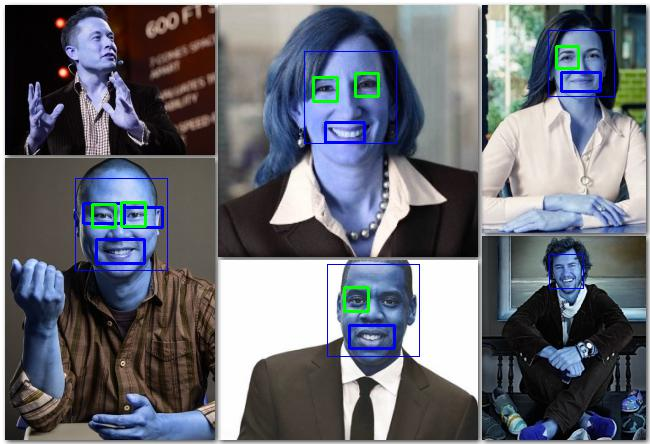
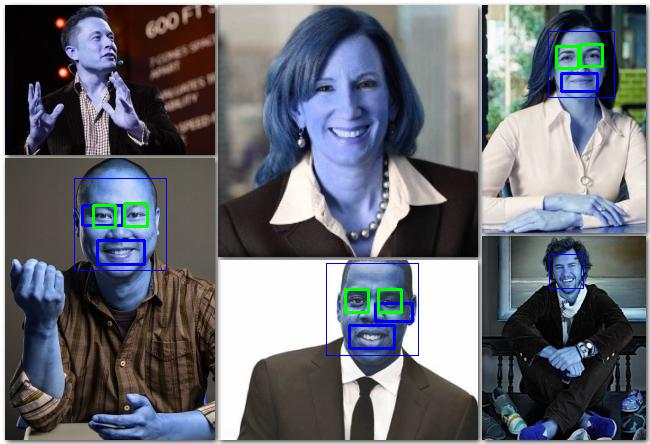
updatting api

diff --git a/app.py b/app.py
@@ -1,124 +1,97 @@
-#!/home/inspiron3551/anaconda3/bin/python
 import os
-from flask import Flask, jsonify, request, redirect, send_file, url_for, render_template
+import imghdr
 from PIL import Image
-import cv2
+from flask import Flask, request, jsonify
+from flask_wtf import FlaskForm
+from flask_wtf.file import FileField
+from wtforms import SubmitField
+from werkzeug.utils import secure_filename
 
-from facefilter import main
-from face_detection import detectedFace
+from utils.face_detection import detectedFace
+from utils.facefilter import faceFilter
 
 app = Flask(__name__)
-
 BASE_DIR = os.path.dirname(os.path.abspath(__file__))
+UPLOAD_DIR = os.path.join(BASE_DIR, 'uploads')
 
-""" 
-OpenCV FaceFilter RestAPI
-"""
-@app.route('/', methods=['GET'])
-def home():
-    return jsonify(
-        {
-        'title': 'OpenCV REST API with Flask',
-        'face filter': url_for('face_filter'),
-        'face detection': url_for('face_detection'),
-        'github': 'https://github.com/codeperfectplus',
-        'documentation': 'documentation_url',
-        'author': 'Deepak Raj'
-        }
-    )        
-'''
-Face Filter post request.
-input post;
-    file: image_file
-    mask: num:<1-3>
-'''
-@app.route('/facefilter', methods=['GET', 'POST'])
-def face_filter():
+# upload file configurations
+app.config['MAX_CONTENT_LENGTH'] = 1024 * 1024 * 1024
+app.config['UPLOAD_EXTENSIONS'] = ['.jpg', '.png', 'jpeg']
 
-    if request.method == 'POST':
-        try:
-            os.mkdir('media')
-        except Exception:
-            print('Folder already exists')
+#validating file contents
+def validate_image(stream):
+    header = stream.read(512)
+    stream.seek(0)
+    format = imghdr.what(None, header)
+    if not format:
+        return None
+    return '.'+ (format if format != 'jpeg' else 'jpg')
 
-        media_root = os.path.join(BASE_DIR, 'media')
-        upload_image = request.files.getlist('file')[0]
-        mask_num = request.form["mask"]
+@app.errorhandler(413)
+def too_large(e):
+    return 'FIle is too large', 413
 
-        image_name = upload_image.filename
+class MyForm(FlaskForm):
+    file = FileField("File")
+    submit = SubmitField('Submit')
 
-        image_path = "/".join([media_root, image_name])
-        
-        # saving input image to server
-        upload_image.save(image_path)
-
-        # main() function is for apply mask on image
-        preprocessed_image = main(image_path, mask_num)
-        preprocessed_image = Image.fromarray(preprocessed_image, 'RGB')
-        preprocessed_image.save(image_path)
-
-        return jsonify(
-            {
-                'output_image': image_path,
-                'file_name': image_name
-            }
-        )
-    return jsonify({'status': 'Create post request for face-filters'})
-
-'''
-Face Detection Post Request
-
-Input post request:
-    file: image_file
-output:
-    detected face and number of face
-'''
-@app.route('/facedetection', methods=['GET','post'])
+@app.route('/facedetection', methods=['GET', 'POST'])
 def face_detection():
-
     if request.method == 'POST':
-        media_root = os.path.join(BASE_DIR, 'media')
-        upload_image = request.files.getlist('file')[0]
+        upload_file = request.files['file']
+        filename = secure_filename(upload_file.filename)
+        if filename != '':
+            file_ext = os.path.splitext(filename)[1]
+            if file_ext not in app.config["UPLOAD_EXTENSIONS"] or \
+                file_ext != validate_image(upload_file.stream):
+                return "Invalid Image", 400
+            
+            image_path = "/".join([UPLOAD_DIR, filename])
 
-        image_name = upload_image.filename
+            upload_file.save(image_path)
 
-        image_path = "/".join([media_root, image_name])
-        
-        # saving input image to server
-        upload_image.save(image_path)
+            preprocess_img, num_of_faces = detectedFace(image_path)
+            output_image = Image.fromarray(preprocess_img, 'RGB')
+            output_image.save(image_path)
 
-        # main() function is for apply mask on image
-        preprocessed_image, num_of_faces = detectedFace(image_path)
-        preprocessed_image = Image.fromarray(preprocessed_image, 'RGB')
-        preprocessed_image.save(image_path)
-
-        return jsonify(
-            {
-                'Total detected face': num_of_faces,
-                'output_image': image_path,
-                'file_name': image_name
-            }
-        )
+            return jsonify(
+                {
+                    'Total detected face': num_of_faces,
+                    'output_image': image_path,
+                    'file_name': filename
+                }
+            )
     return jsonify({'status': 'Create post request for face-detection'})
 
+@app.route('/facefilter', methods=['GET', 'POST'])
+def face_filter():
+    if request.method == 'POST':
+        upload_file = request.files['file']
+        mask_num = request.form['mask']
 
-''' This is only for debugging and testing purpose'''
-@app.route('/test', methods=['post'])
-def test():
+        filename = secure_filename(upload_file.filename)
+        if filename != '':
+            file_ext = os.path.splitext(filename)[1]
+            if file_ext not in app.config["UPLOAD_EXTENSIONS"] or \
+                file_ext != validate_image(upload_file.stream):
+                return "Invalid Image", 400
+            
+            image_path = "/".join([UPLOAD_DIR, filename])
 
-    media_root = os.path.join(BASE_DIR, 'media')
-    upload_image = request.files.getlist('file')[0]
+            upload_file.save(image_path)
 
-    image_name = upload_image.filename
+            preprocess_image = main(image_path, mask_num)
+            output_image = Image.fromarray(preprocess_image, 'RGB')
+            output_image.save(image_path)
 
-    image_path = "/".join([media_root, image_name])
-    
-    # saving input image to server
-    upload_image.save(image_path)
+            return jsonify(
+                {
+                    'output_image': image_path,
+                    'file_name': filename
+                }
+            )
+    return jsonify({'status': 'Create post request for face-filters'})
 
-    # main() function is for apply mask on image
-    preprocessed_image, num_of_faces = detectedFace(image_path)
-    preprocessed_image = Image.fromarray(preprocessed_image, 'RGB')
-    preprocessed_image.save(image_path)
-    
-    return send_file(image_path, mimetype='image/gif')
+
+if __name__ == "__main__":
+    app.run()

diff --git a/app3.py b/app3.py
@@ -1,0 +1,126 @@
+#!/home/inspiron3551/anaconda3/bin/python
+import os
+import numpy as np
+from flask import Flask, jsonify, request, redirect, send_file, url_for, render_template
+from PIL import Image
+import cv2
+import pickle
+
+from facefilter import main
+from face_detection import detectedFace
+from utils import randomFilename
+
+app = Flask(__name__)
+
+BASE_DIR = os.path.dirname(os.path.abspath(__file__))
+
+""" 
+OpenCV FaceFilter RestAPI
+"""
+@app.route('/', methods=['GET'])
+def home():
+    return jsonify(
+        {
+        'title': 'OpenCV REST API with Flask',
+        'face filter': url_for('face_filter'),
+        'face detection': url_for('face_detection'),
+        'github': 'https://github.com/codeperfectplus',
+        'documentation': 'documentation_url',
+        'author': 'Deepak Raj'
+        }
+    )        
+
+'''
+Face Filter post request.
+input post;
+    file: image_file
+    mask: num:<1-3>
+'''
+@app.route('/facefilter', methods=['GET', 'POST'])
+def face_filter():
+
+    if request.method == 'POST':
+        try:
+            os.mkdir('media')
+        except Exception:
+            print('Folder already exists')
+
+        media_root = os.path.join(BASE_DIR, 'media')
+        upload_image = request.files.getlist('file')[0]
+        mask_num = request.form["mask"]
+
+        image_name = upload_image.filename
+
+        image_path = "/".join([media_root, image_name])
+        
+        # saving input image to server
+        upload_image.save(image_path)
+
+        # main() function is for apply mask on image
+        preprocess_image = main(image_path, mask_num)
+        output_image = Image.fromarray(preprocess_image, 'RGB')
+        output_image.save(image_path)
+
+        return jsonify(
+            {
+                'output_image': image_path,
+                'file_name': image_name
+            }
+        )
+    return jsonify({'status': 'Create post request for face-filters'})
+
+'''
+Face Detection Post Request
+
+Input post request:
+    file: image_file
+output:
+    detected face and number of face
+'''
+@app.route('/facedetection', methods=['GET','post'])
+def face_detection():
+
+    if request.method == 'POST':
+        media_root = os.path.join(BASE_DIR, 'media')
+        upload_image = request.files.getlist('file')[0]
+
+        image_name = upload_image.filename
+
+        image_path = "/".join([media_root, image_name])
+        
+        # saving input image to server
+        upload_image.save(image_path)
+        
+        preprocess_img, num_of_faces = detectedFace(image_path)
+        output_image = Image.fromarray(preprocess_img, 'RGB')
+        output_image.save(image_path)
+
+        return jsonify(
+            {
+                'Total detected face': num_of_faces,
+                'output_image': image_path,
+                'file_name': image_name
+            }
+        )
+    return jsonify({'status': 'Create post request for face-detection'})
+
+
+''' This is only for debugging and testing purpose'''
+@app.route('/test', methods=['post'])
+def test():
+
+    media_root = os.path.join(BASE_DIR, 'media')
+    upload_image = request.files['file']
+    upload_image = Image.open(upload_image.stream)
+    print(upload_image)
+    image_name = f'{randomFilename()}.jpeg'
+    image_path = "/".join([media_root, image_name])
+
+    upload_image.save(image_path)
+
+    img, num_face = detectedFace(image_path)
+    output_image = Image.fromarray(img, 'RGB')
+    output_image.save(image_path)
+    
+
+    return jsonify({'status': True})

diff --git a/test.py b/test.py
@@ -2,14 +2,13 @@
 import requests
 
 local_url = 'http://localhost:5000/facedetection'
-heroku_url = 'https://snpachat-filter-restapi.herokuapp.com/facefilter'
+heroku_url = 'https://snpachat-filter-restapi.herokuapp.com/facedetection'
 
-file_path = '/home/inspiron3551/Downloads/Pictures/30-of-the-most-influential-and-famous-entrepreneurs-from-all-over-the-world.jpg'
+file_path = '/home/inspiron3551/Downloads/Pictures/leaders2.jpg'
 
 files = {
     'file': open(file_path, 'rb'),
 }
-
 response = requests.post(local_url, files=files)
 print('Respone: ', response)
 print(response.text)

diff --git a/utils/face_detection.py b/utils/face_detection.py
@@ -11,7 +11,7 @@ smile_cascade = cv2.CascadeClassifier(smile_path)
 def detectedFace(img):
     img = cv2.imread(img)
 
-    gray = cv2.cvtColor(img, cv2.COLOR_BGR2GRAY)
+    gray = cv2.cvtColor(img, cv2.COLOR_RGB2GRAY)
 
     faces = face_cascade.detectMultiScale(gray, 1.4, 5)
 

diff --git a/utils/facefilter.py b/utils/facefilter.py
@@ -25,7 +25,7 @@ def apply_mask(face: np.array, mask: np.array):
 
     return face_with_mask
 
-def main(input_image, mask_num):
+def faceFilter(input_image, mask_num):
 
     input_image = cv2.imread(input_image)
 
